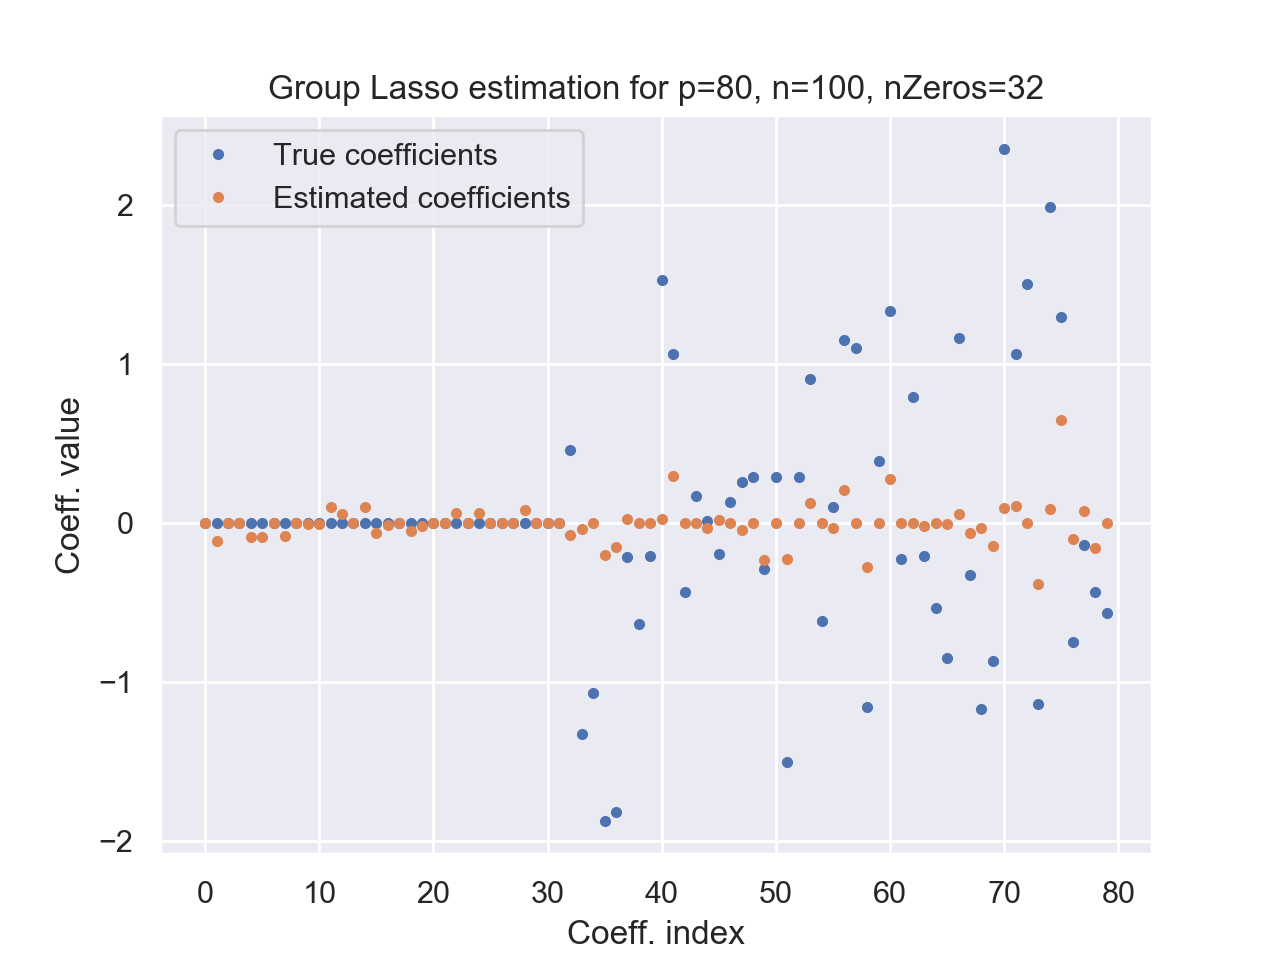
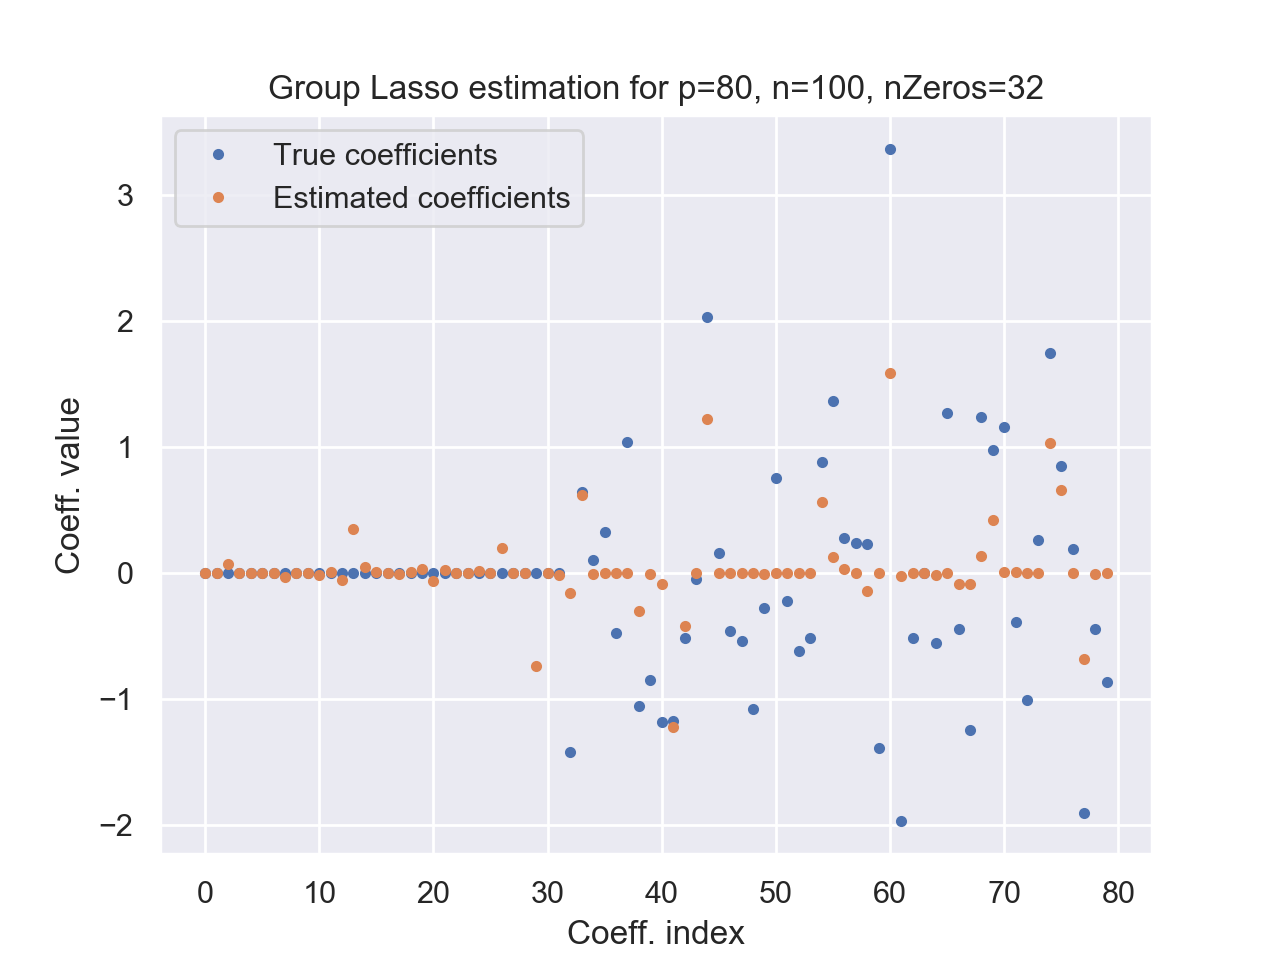
Added new and better figures. Fixed the bug where the correct group labels got shuffled because F_groups was inherit from groups. Remember that

diff --git a/BigData/project3.py b/BigData/project3.py
@@ -20,21 +20,26 @@ gSize = round(p/nGroups)
 beta = np.random.normal(loc=0, scale=1, size=p)
 
 groups = np.ones(p)
+F_groups = np.ones(p)
 start = 0
 
 for ix in range(0, nGroups):
     groups[start:start+gSize] = ix
+    F_groups[start:start+gSize] = ix
     start += gSize
 
 # Uncomment to give feature param. wrong groups
-F_groups = np.random.randint(0, nGroups, p)
+np.random.shuffle(F_groups)
+
+print(groups)
+print(F_groups)
 
 # Generate data
 X = np.ndarray((n,p), dtype=float)
 cov_int = [0.1, 0.7, 0.2, 0.4, 0.3]     # Adds correlation between features within TRUE group
 
 # Uncomment to have 0 correlation between features
-cov_int = np.zeros(p)
+#cov_int = np.zeros(p)
 
 start = 0
 for ig in range(0, nGroups):
@@ -77,6 +82,43 @@ print("Number of zero coefficients: {}".format(nZeros))
 print("Number of choosen variables: {}".format(gl.sparsity_mask_.sum()))
 print(conf_m)
 
+group_bool = np.ndarray(shape=(3, nGroups), dtype=int)
+group_bool[0, :] = [0, 1, 2, 3, 4]
+group_bool[1, :] = [nZeros/2, nZeros/2, 0, 0, 0]
+
+Fgroup_bool = np.ndarray(shape=(3, nGroups), dtype=int)
+Fgroup_bool[0, :] = [0, 1, 2, 3, 4]
+
+
+# print(beta_hat[np.where(groups == 0)])
+# print(beta_hat[np.where(groups == 1)])
+# print(beta_hat[np.where(groups == 2)])
+# print(beta_hat[np.where(groups == 3)])
+# print(beta_hat[np.where(groups == 4)])
+
+# print(beta_hat[np.where(F_groups == 0)])
+# print(beta_hat[np.where(F_groups == 1)])
+# print(beta_hat[np.where(F_groups == 2)])
+# print(beta_hat[np.where(F_groups == 3)])
+# print(beta_hat[np.where(F_groups == 4)])
+
+for ig in range(0, nGroups):
+    ix_g = np.where(groups == ig)
+    ix_fg = np.where(F_groups == ig)
+    sum_0_fg = sum(F_groups[:nZeros] == ig)   # In which false group are the true 0 at?
+    nr_zeros = sum(gl.sparsity_mask_[ix_g] == False)
+    nr_zeros_F = sum(gl.sparsity_mask_[ix_fg] == False)
+    group_bool[2, ig] = nr_zeros
+    Fgroup_bool[2, ig] = nr_zeros_F
+    Fgroup_bool[1, ig] = sum_0_fg
+
+print(gl.sparsity_mask_)
+
+print()
+print(group_bool)
+print()
+print(Fgroup_bool)
+
 sns.set()
 
 plt.figure()
@@ -94,17 +136,9 @@ plt.title("Group Lasso estimation for p={}, n={}, nZeros={}".format(p, n, nZeros
 plt.ylabel("Learned coefficients")
 plt.xlabel("True coefficients")
 
-group_bool = np.ndarray(shape=(3, nGroups), dtype=int)
-group_bool[0, :] = [0, 1, 2, 3, 4]
-group_bool[1, :] = [nZeros/2, nZeros/2, 0, 0, 0]
-
-for ig in range(0, nGroups):
-    ix_g = np.where(groups == ig)
-    nr_zeros = sum(gl.sparsity_mask_[ix_g] == False)
-    group_bool[2, ig] = nr_zeros
-
-print()
-print(group_bool)
+plt.figure()
+sns.heatmap(conf_m, annot=True, fmt='d', yticklabels=["True 0", "True non-0"], xticklabels=["Est. 0", "Est. non-0"])
+plt.title("Confusion Matrix")
 
 plt.figure()
 sns.heatmap(group_bool[1:, :], annot=True, fmt='d', yticklabels=False)
@@ -112,10 +146,13 @@ plt.title("'Confusion' - (not really) matrix")
 plt.xlabel("Group Index")
 plt.ylabel("Est. # zeros          |         True # zeros")   
 
+plt.figure()
+sns.heatmap(Fgroup_bool[1:, :], annot=True, fmt='d', yticklabels=False)
+plt.title("'Confusion' - (not really) matrix")
+plt.xlabel("False Group Index")
+plt.ylabel("Est. # zeros          |         True # zeros")   
 
 plt.show()
-
-
 
 
 
